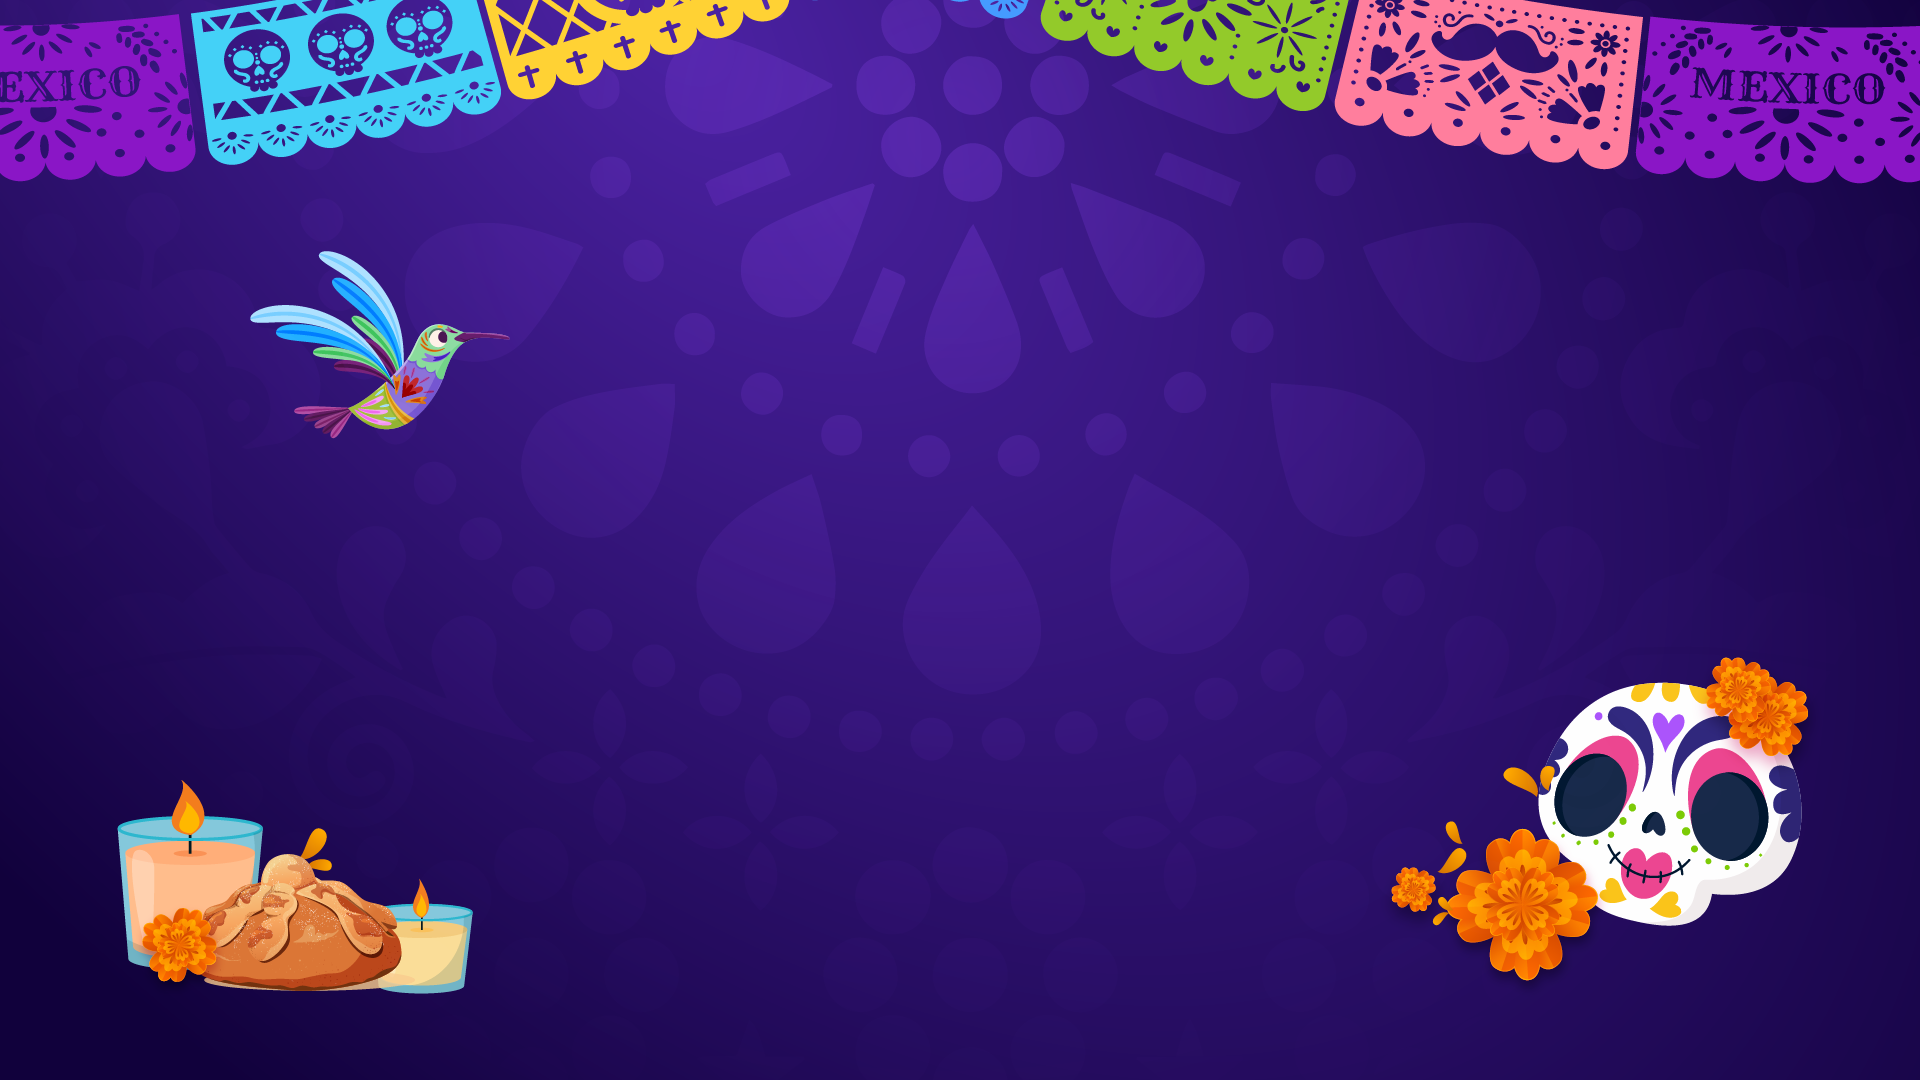
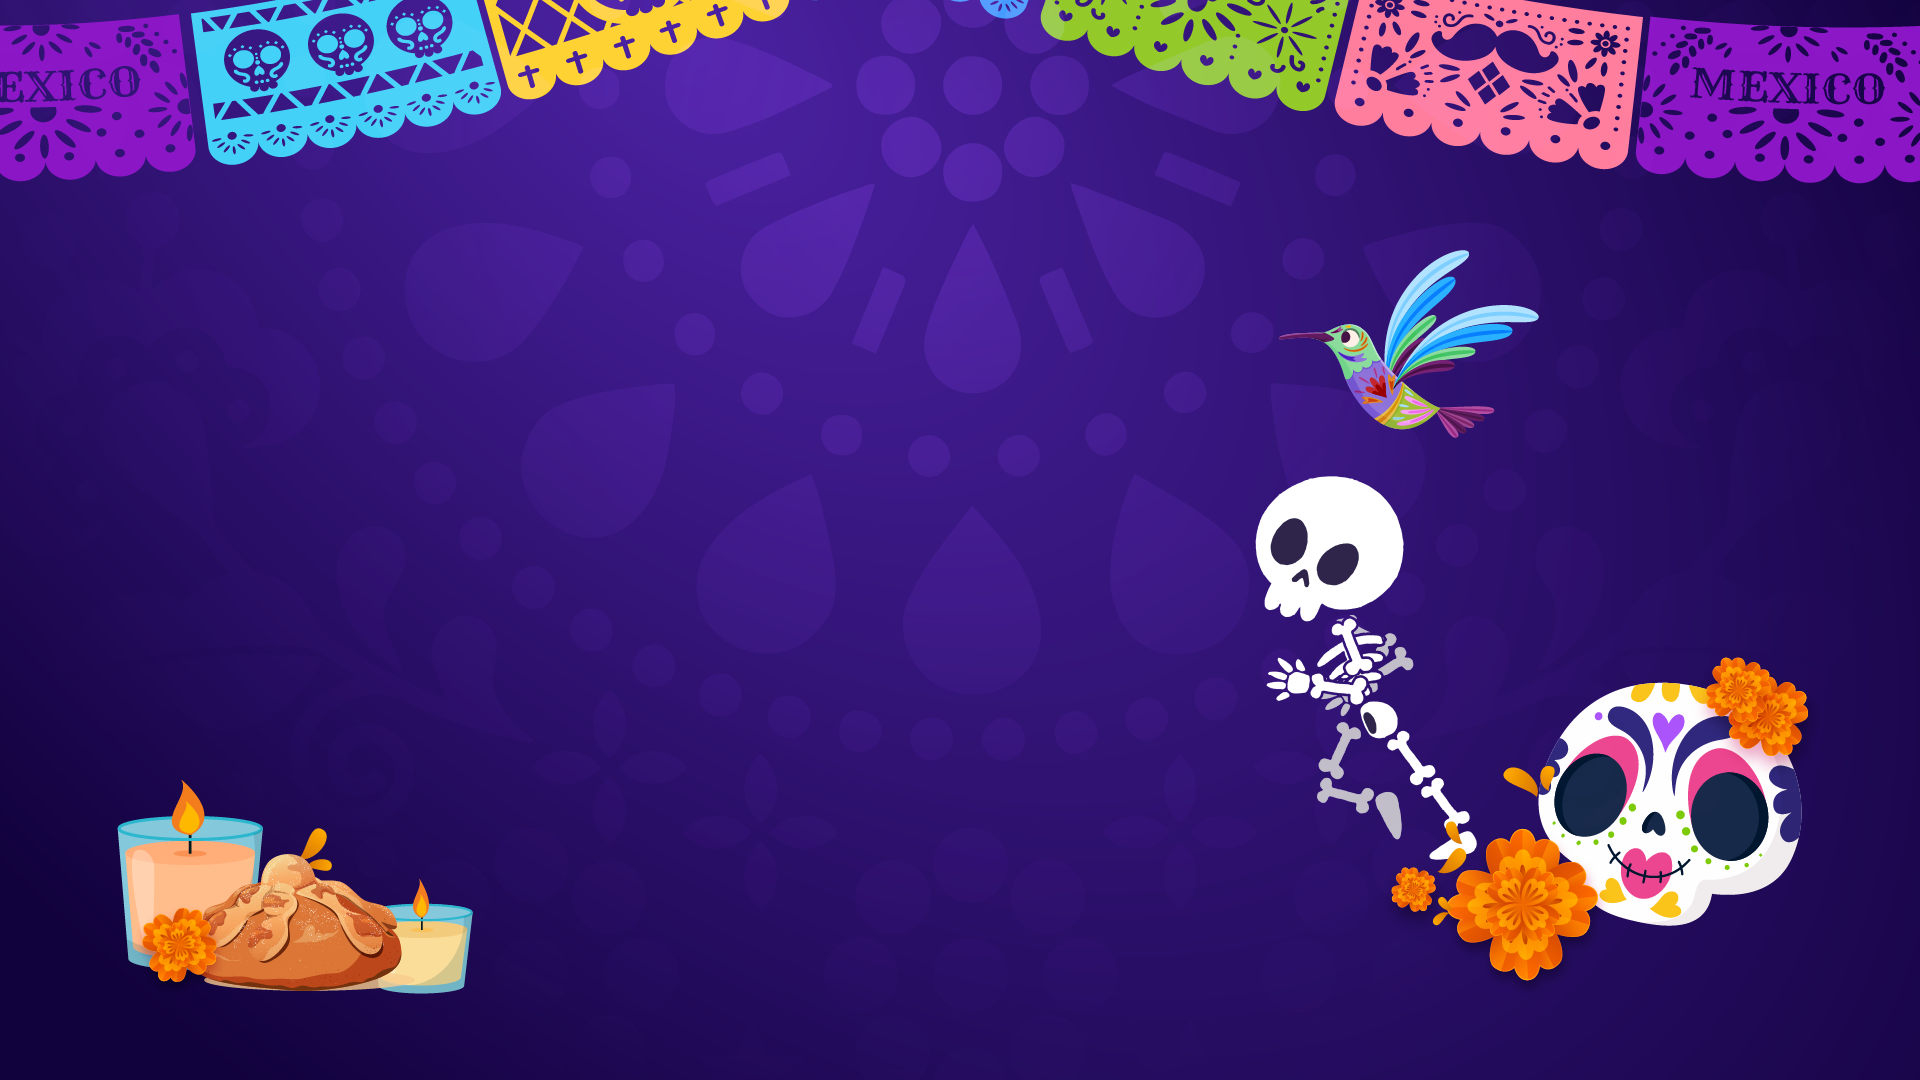
Día de Muertos: skeleton idle and jump animations, new cover
- The skeleton breathes while standing (3 frames) and jumps with 7 frames
  that follow its vertical speed: push-off, top of the arc and fall.
  Run, stand and jump frames share one crop so it keeps its size.
- New cover illustration with the skeleton and hummingbird; the
  Playground thumbnail is updated to match.

diff --git a/public/challenge/dia-de-muertos/script.js b/public/challenge/dia-de-muertos/script.js
@@ -67,7 +67,10 @@ const game = new Phaser.Game(config);
 function preload(){
   const img=(key,path)=>this.load.image(key,encodeURI(path));
   // Esqueleto: cuadros recortados y reducidos desde assets/personaje/walk/Skeleton 0N.png.
+  // Esqueleto: cuadros de walk/, stay/ y jump/ recortados con la misma caja (285×272, suelo abajo).
   for(let i=1;i<=8;i++)img(`correr${i}`,`assets/personaje/esqueleto/correr${i}.png`);
+  for(let i=1;i<=3;i++)img(`quieto${i}`,`assets/personaje/esqueleto/quieto${i}.png`);
+  for(let i=1;i<=7;i++)img(`salto${i}`,`assets/personaje/esqueleto/salto${i}.png`);
   img('game-background','assets/Background_all.png');
   for(let i=1;i<=5;i++)img(`colibriFlight${i}`,`assets/colibri/colibri${i}.png`);
   for(let i=1;i<=11;i++)img(`tumba1Frame${i}`,`assets/tumba1/tumbaM${i}.png`);
@@ -99,8 +102,8 @@ function create(){
 
   createAnimations(this);
   player=this.physics.add.sprite(250,GROUND-140,'correr1').setScale(90/256).setDepth(20);
-  // Cuadros de 199×256 con el suelo en la fila 256; cuerpo centrado para que no se mueva al voltear.
-  player.body.setSize(70,236).setOffset(64,20);
+  // Cuadros de 285×272 con el suelo en la última fila; cuerpo centrado en el esqueleto (x≈118).
+  player.body.setSize(70,236).setOffset(83,36);
   player.setCollideWorldBounds(true);
   player.play('idle');
   this.physics.add.collider(player,floor);
@@ -151,10 +154,8 @@ function fitWorldToScreen(){
 function createAnimations(scene){
   if(scene.anims.exists('idle'))return;
   const frames=(name,count)=>Array.from({length:count},(_,i)=>({key:`${name}${i+1}`}));
-  // Quieto y salto usan por ahora una imagen fija de la carrera, hasta tener sus propios cuadros.
-  scene.anims.create({key:'idle',frames:[{key:'correr1'}],frameRate:1,repeat:-1});
+  scene.anims.create({key:'idle',frames:frames('quieto',3),frameRate:4,yoyo:true,repeat:-1});
   scene.anims.create({key:'walk',frames:frames('correr',8),frameRate:14,repeat:-1});
-  scene.anims.create({key:'jump',frames:[{key:'correr1'}],frameRate:1,repeat:0});
   scene.anims.create({key:'colibri-flight',frames:frames('colibriFlight',5),frameRate:12,repeat:-1});
   TRAPS.forEach(t=>scene.anims.create({key:`${t.key}-rise`,frames:frames(`${t.key}Frame`,t.frames),frameRate:5,repeat:-1}));
 }
@@ -255,9 +256,15 @@ function update(){
 }
 
 function updateAvatarAnimation(grounded){
-  const mode=!grounded?'jump':Math.abs(player.body.velocity.x)>1?'walk':'idle';
-  player.anims.play(mode,true);
   player.setFlipX(avatarFacing<0);
+  if(!grounded){
+    // En el aire el cuadro sigue a la velocidad vertical: impulso (1), punto alto (4) y caída (7).
+    player.anims.stop();
+    const vy=Phaser.Math.Clamp(player.body.velocity.y,-540,540);
+    player.setTexture(`salto${1+Math.round((vy+540)/1080*6)}`);
+    return;
+  }
+  player.anims.play(Math.abs(player.body.velocity.x)>1?'walk':'idle',true);
 }
 
 // El colibrí vuela delante de la Calaquita y se acerca al siguiente recuerdo.
